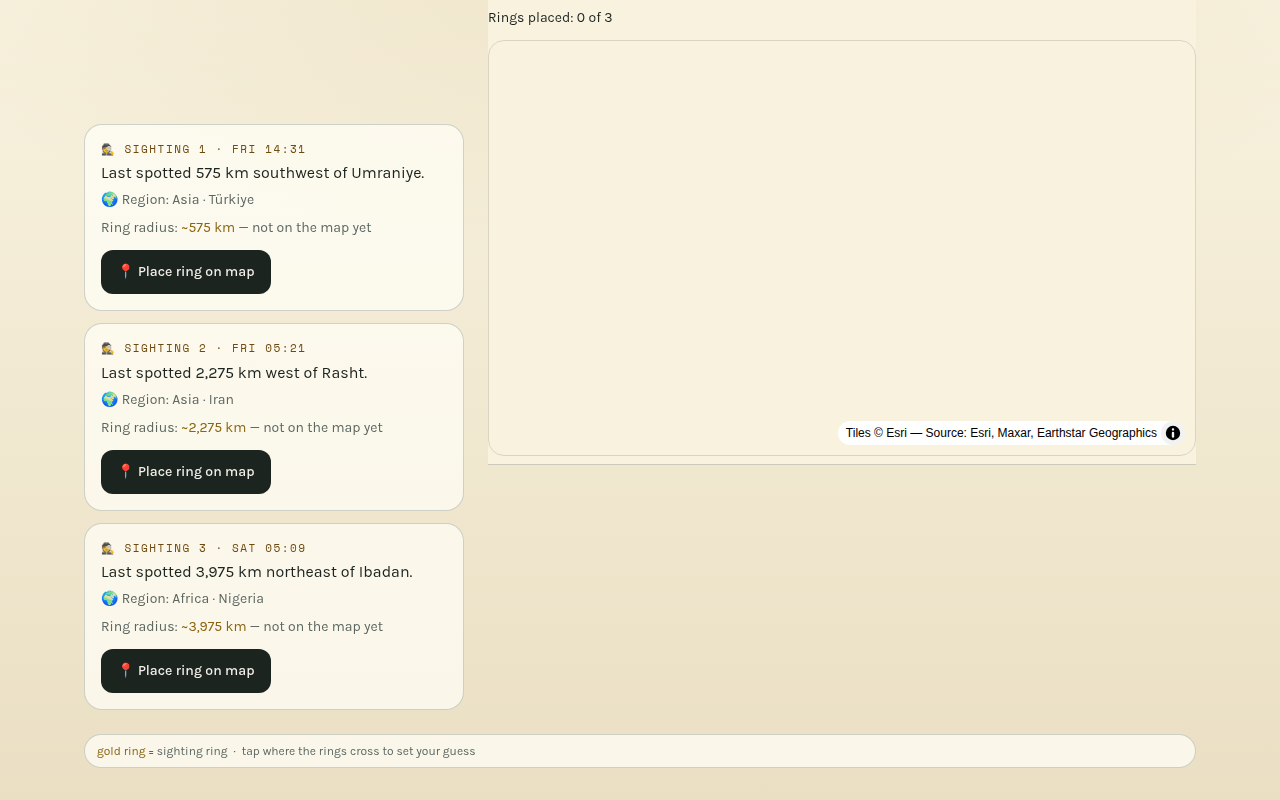
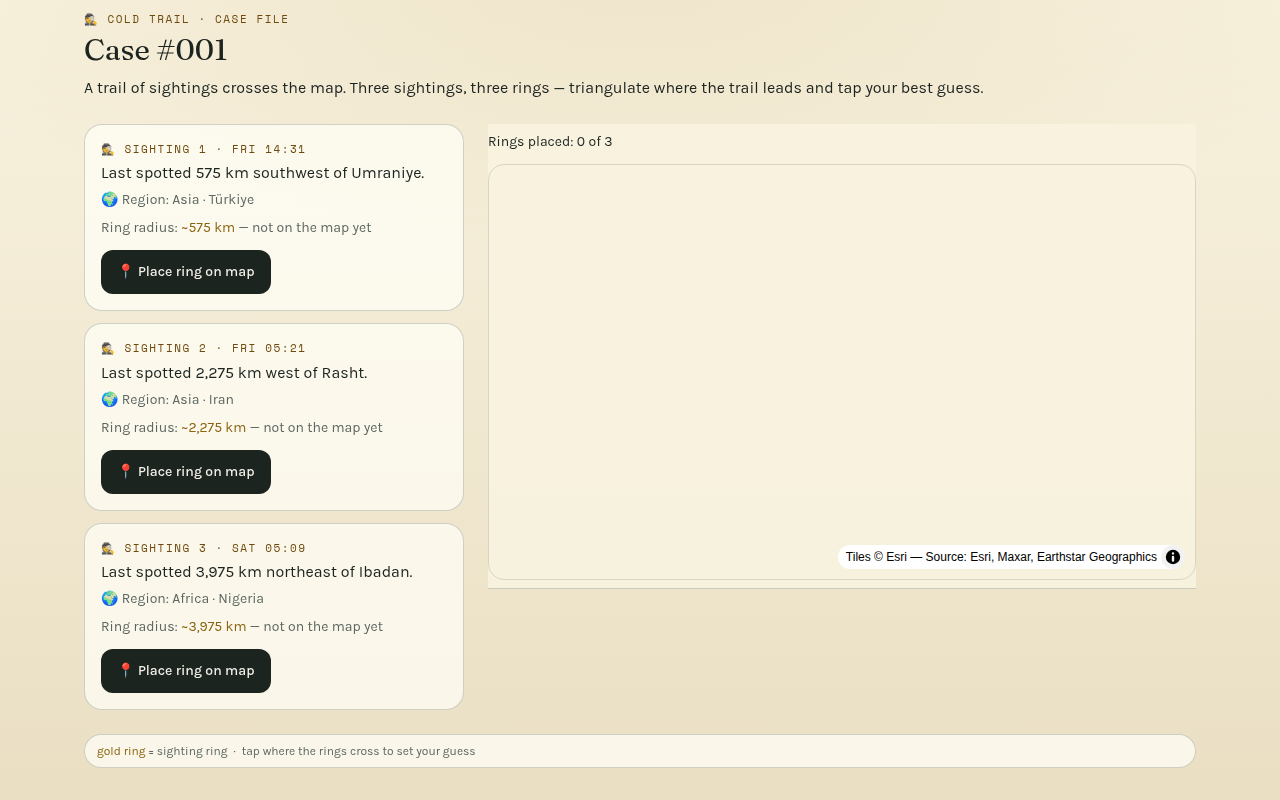
fix(coldtrail): B-1 — grid-row 1 on both desktop grid children; sightings sit beside the map again (1280 re-shots)

diff --git a/src/styles.css b/src/styles.css
@@ -1994,10 +1994,12 @@
 
   .ct-layout .ct-sightings {
     grid-column: 1;
+    grid-row: 1;
   }
 
   .ct-layout .ct-map {
     grid-column: 2;
+    grid-row: 1;
   }
 
   .ct-layout [data-testid="sighting-card"] {
